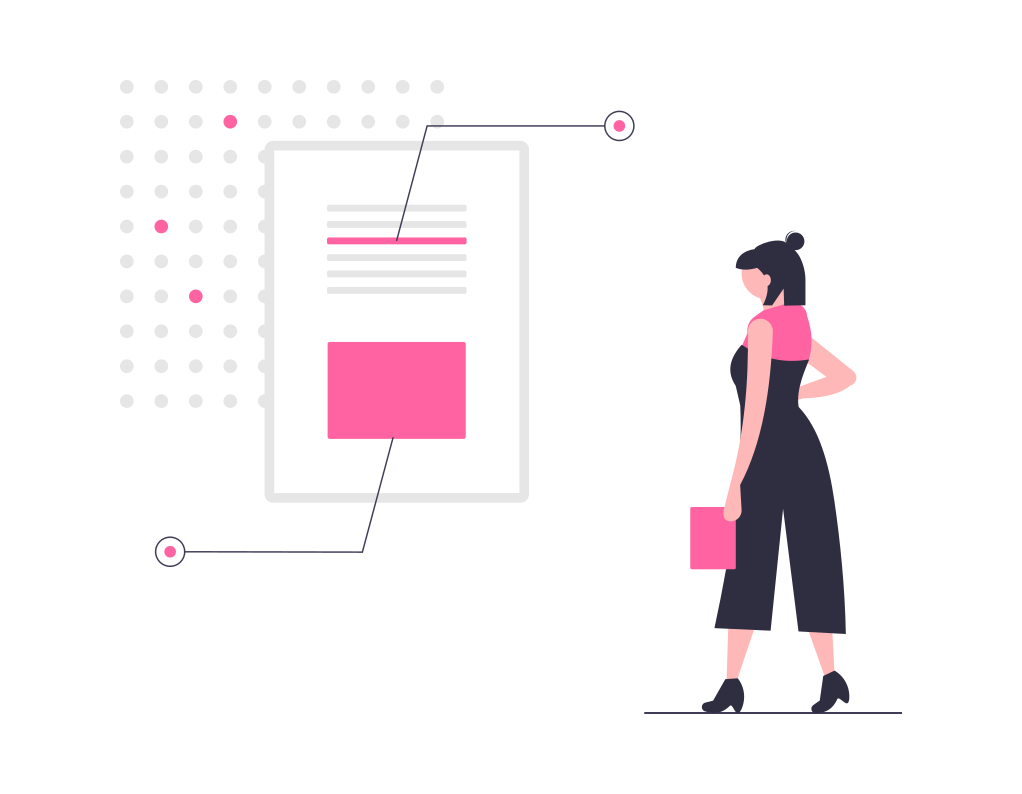
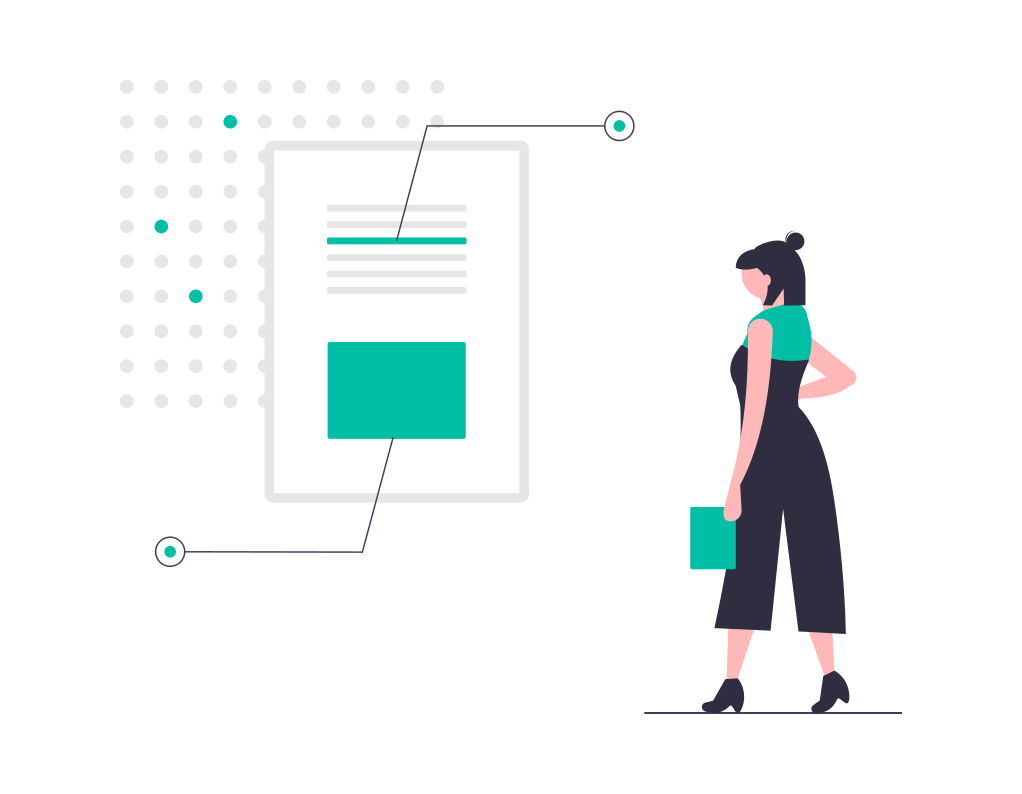
feat: colors changed

diff --git a/lib/ui/home.dart b/lib/ui/home.dart
@@ -12,11 +12,17 @@ class _HomeState extends State<Home> {
       appBar: AppBar(
         title: Text('Text Extractor'),
         centerTitle: true,
-        backgroundColor: Color(0XFFFF63A1),
+        backgroundColor: Color(0XFF00BFA6),
       ),
       backgroundColor: Colors.white,
       body: Stack(
         children: <Widget>[
+          Container(
+            padding: EdgeInsets.all(10.0),
+            alignment: Alignment.topRight,
+            child: Image.asset('images/sync_files.png',
+                width: 150.0, height: 150.0, fit: BoxFit.fill),
+          ),
           Container(
             padding: EdgeInsets.all(10.0),
             alignment: Alignment.bottomLeft,
@@ -25,17 +31,32 @@ class _HomeState extends State<Home> {
           ),
           Container(
             alignment: Alignment.center,
-            margin: EdgeInsets.only(top: 150.0),
+            margin: EdgeInsets.only(top: 250.0),
             child: Column(
               children: <Widget>[
-                RaisedButton(
-                  child: Text('Capture'),
+                Padding(
+                  padding: const EdgeInsets.only(bottom: 10.0),
+                  child: RaisedButton(
+                    child: Text('Capture'),
+                    onPressed: () {},
+                    textColor: Colors.white,
+                    color: Color(0XFF06A48F),
+                  ),
                 ),
-                Container(
-                  child: Text('or'),
+                Padding(
+                  padding: const EdgeInsets.all(5.0),
+                  child: Container(
+                    child: Text('or'),
+                  ),
                 ),
-                RaisedButton(
-                  child: Text('Gallery'),
+                Padding(
+                  padding: const EdgeInsets.only(top: 10.0),
+                  child: RaisedButton(
+                    child: Text('Gallery'),
+                    onPressed: () {},
+                    textColor: Colors.white,
+                    color: Color(0XFF06A48F),
+                  ),
                 )
               ],
             ),
